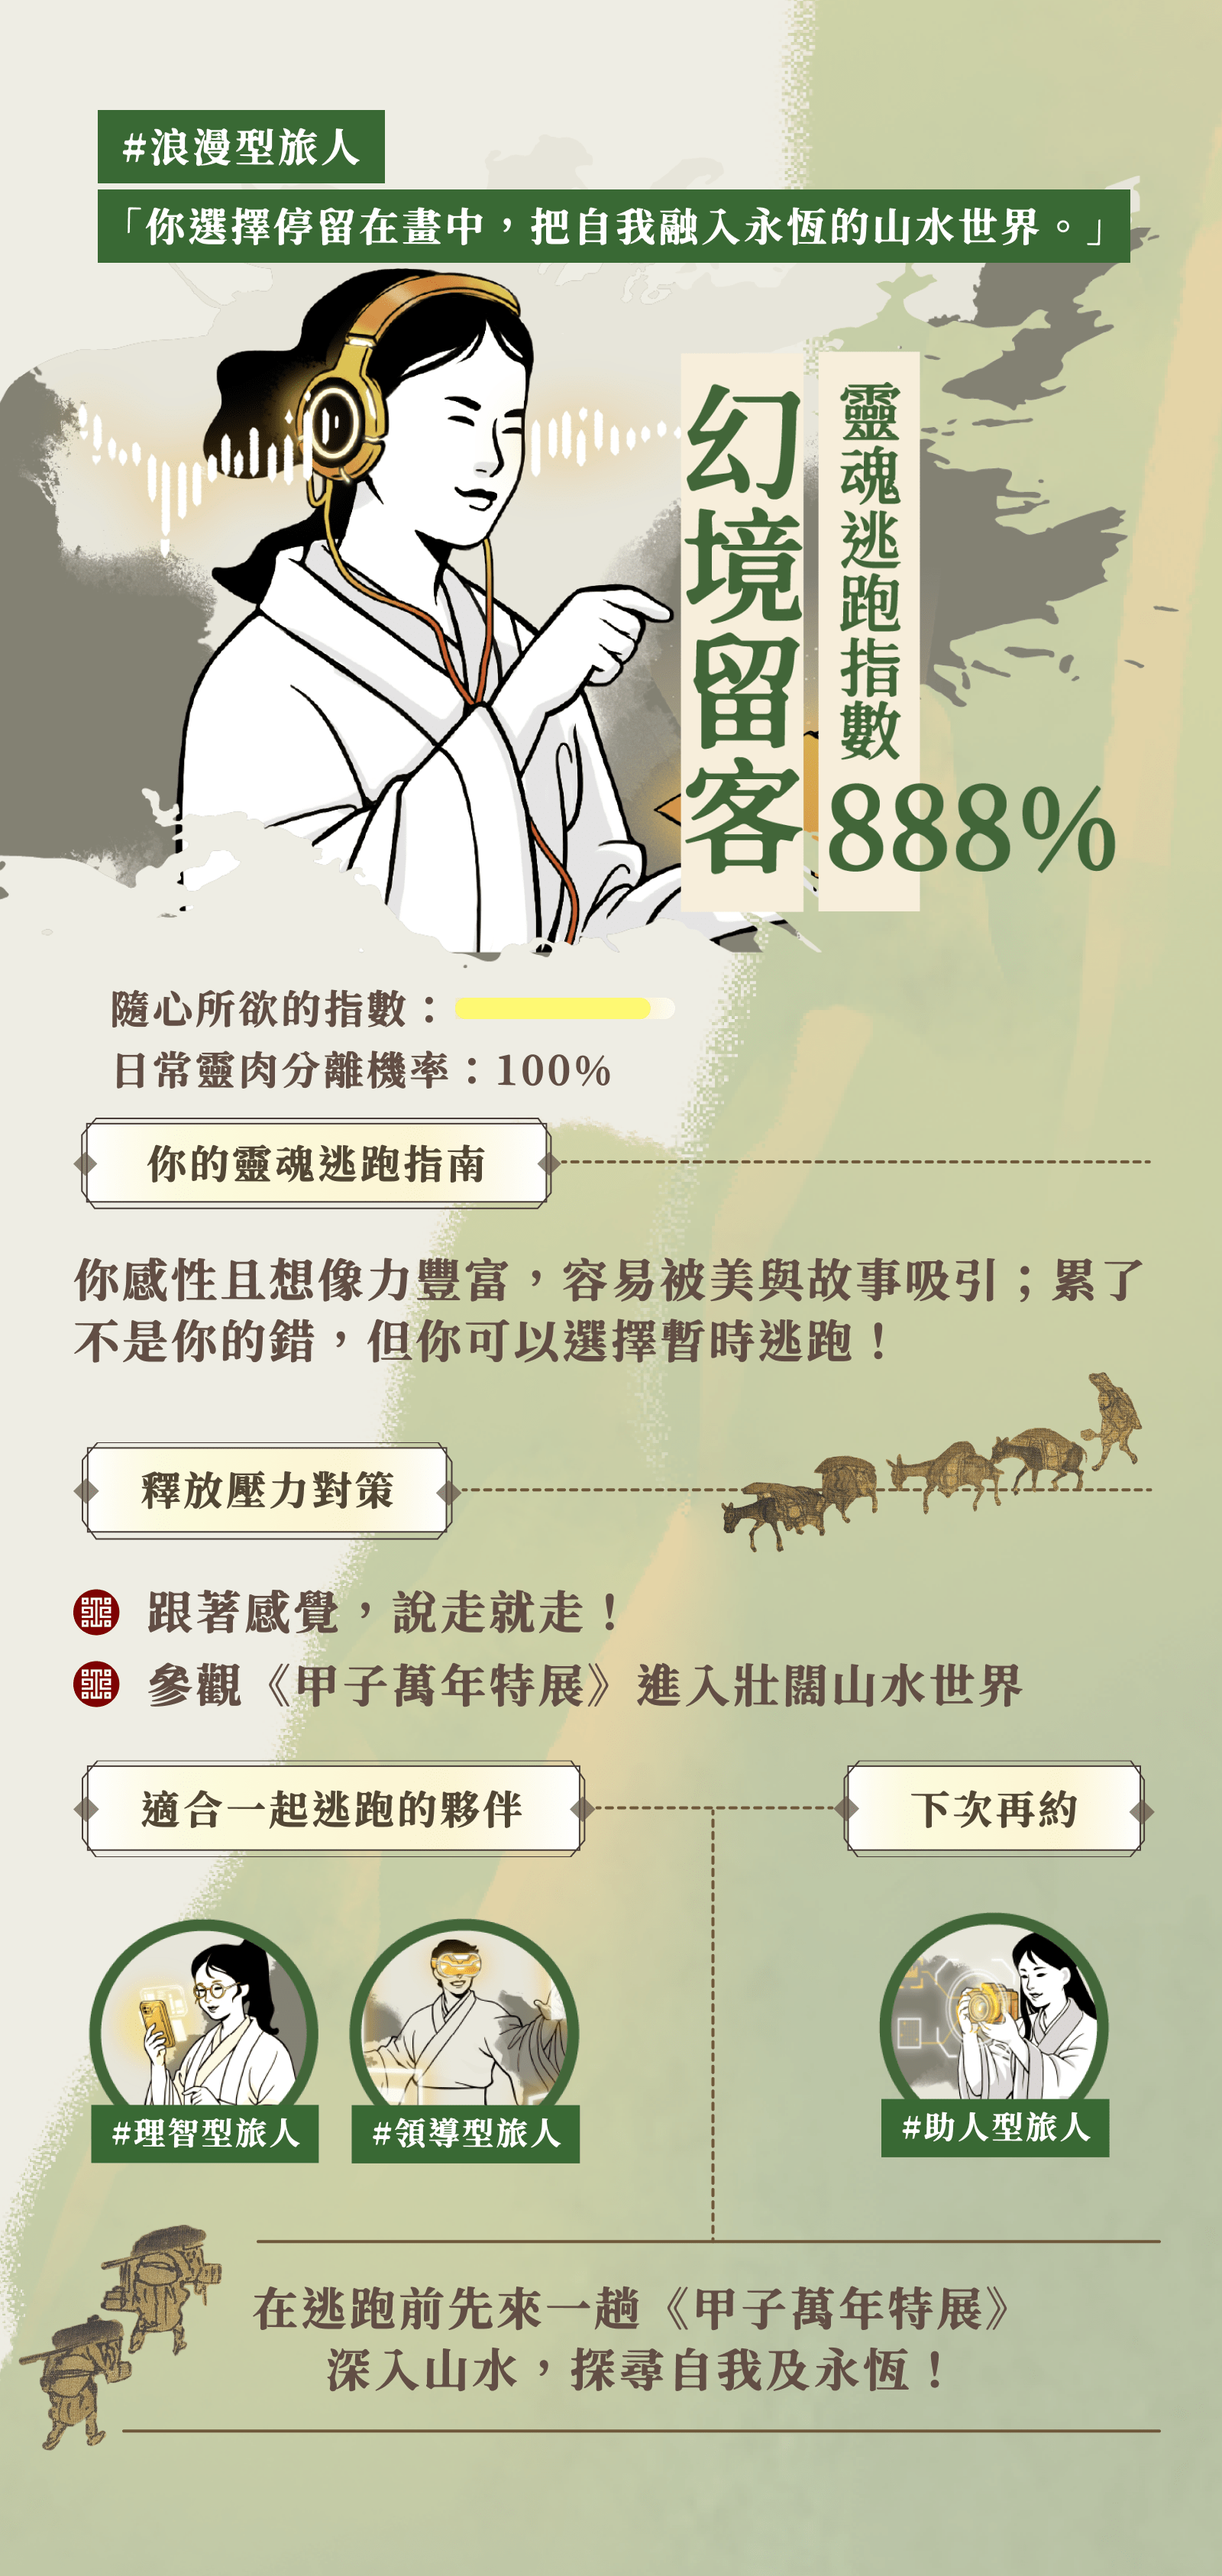
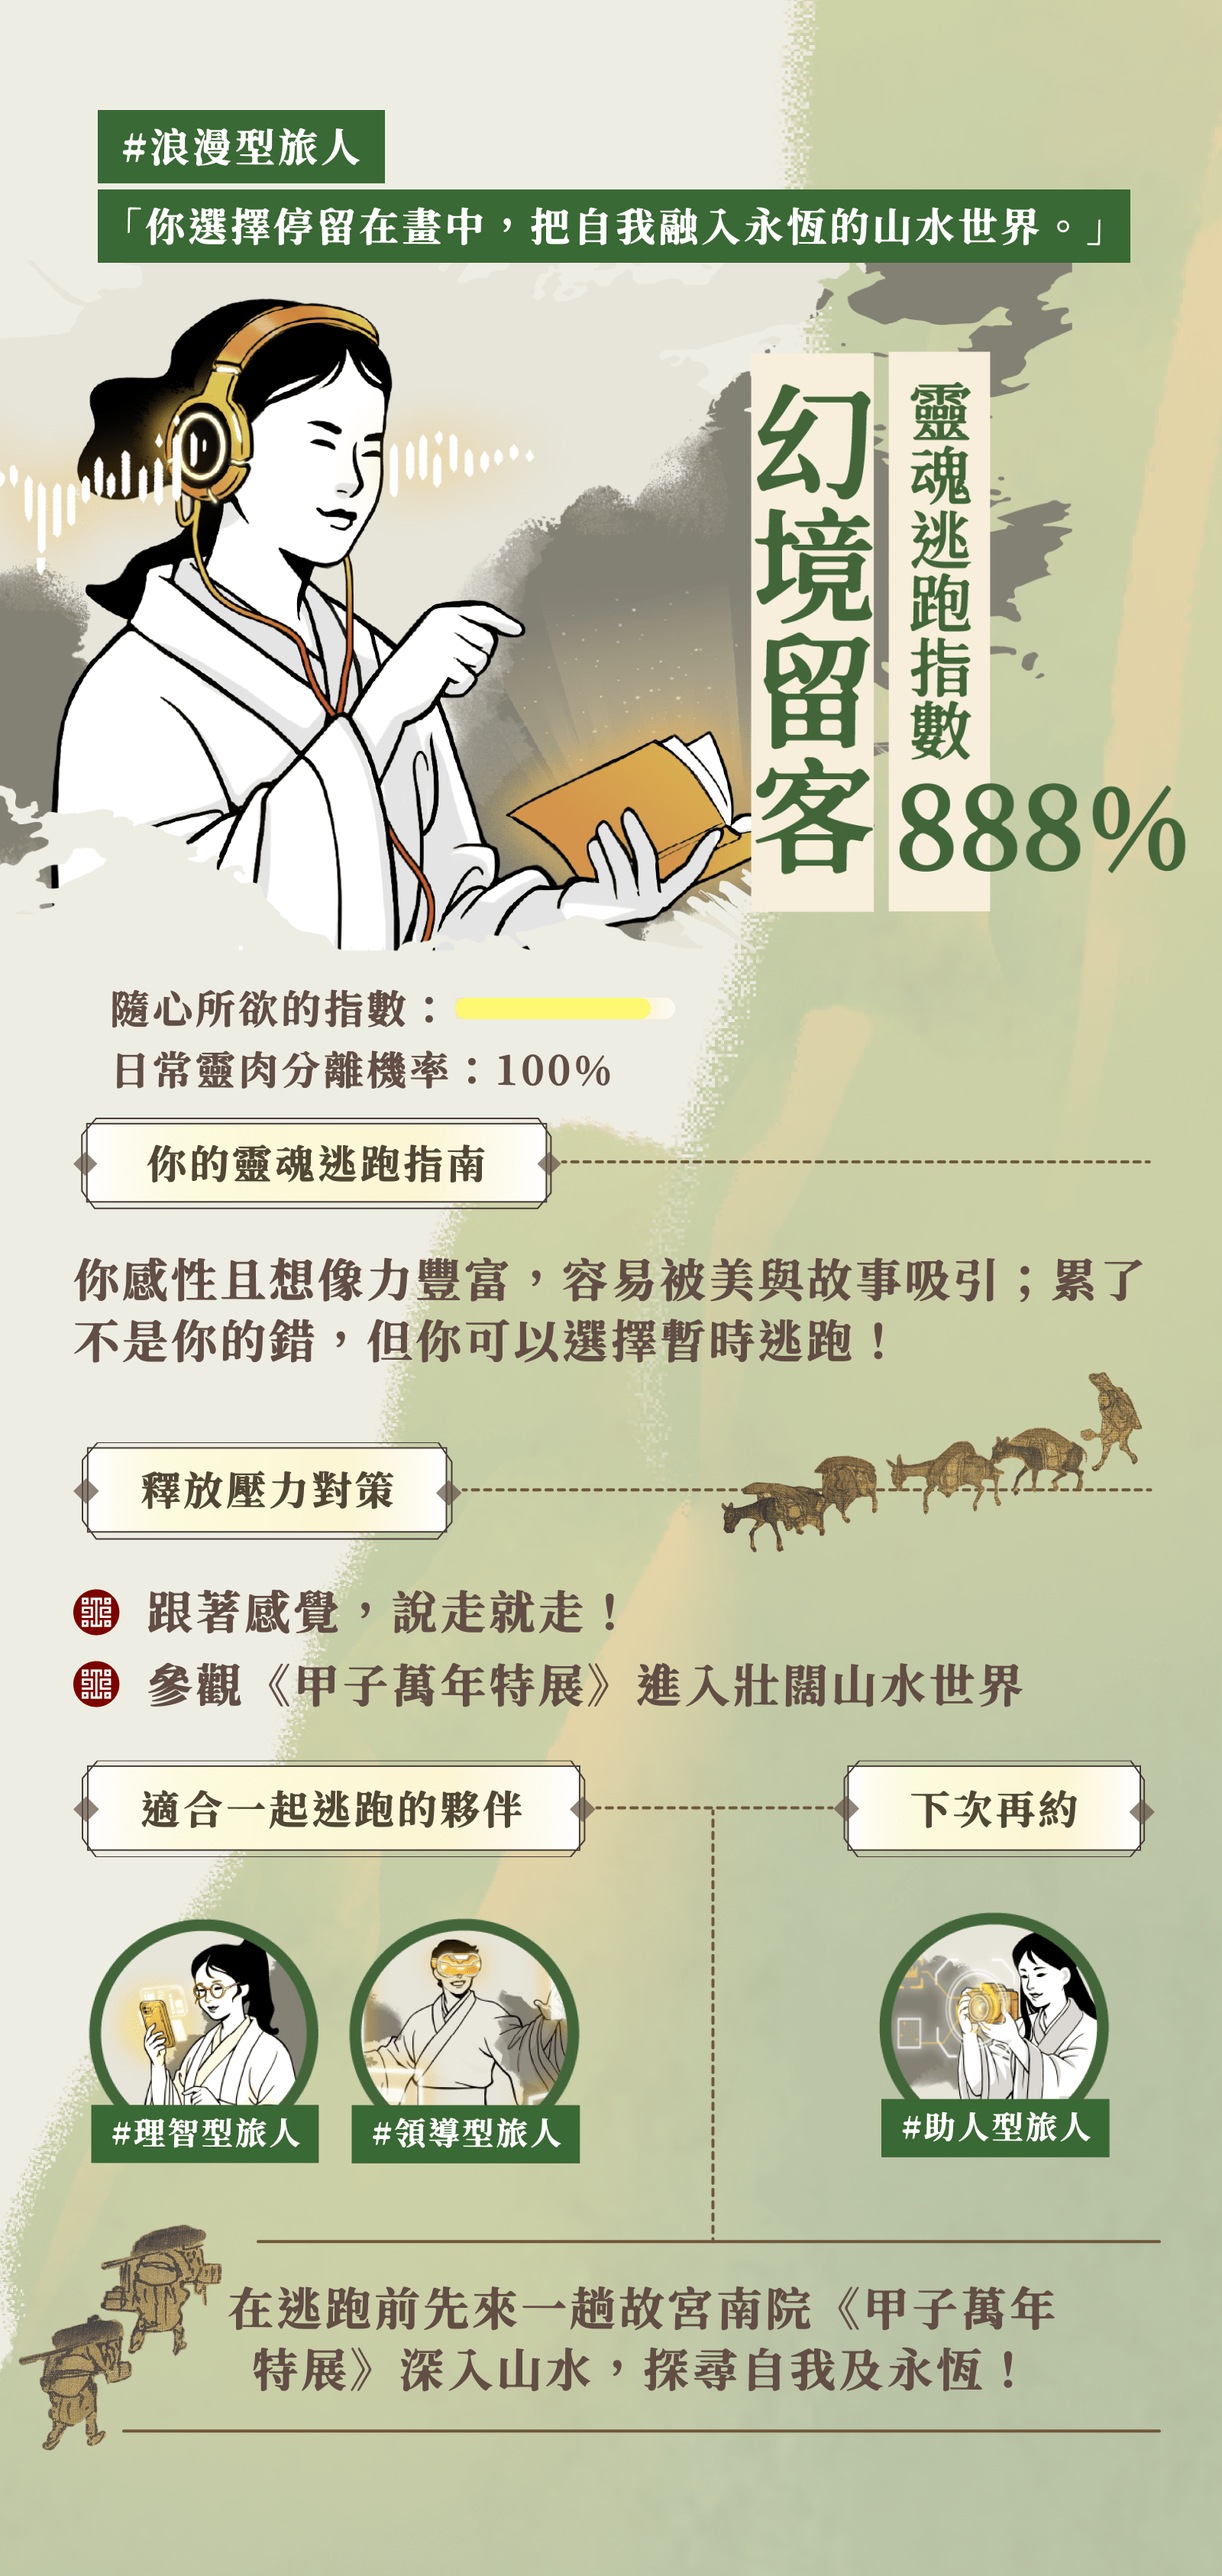
feat: 更新結果頁圖片並添加下載提示文字
- 更新 10 張結果頁圖片 (result_1-5.png, r_download_1-5.png)
- 在 P6 頁面按鈕上方添加下載提示文字：「▲ 長按圖片下載你的靈魂逃跑指南 ▲」
- 調整 p6-buttons 容器為 relative 定位以支援提示文字

🤖 Generated with [Claude Code](https://claude.com/claude-code)

Changed region(s): [[0.0, 0.0934, 0.9688, 0.3737], [0.1875, 0.8719, 0.875, 0.9342], [0.9062, 0.0623, 0.9375, 0.0934]]

diff --git a/src/components/sixagenary.vue b/src/components/sixagenary.vue
@@ -341,6 +341,7 @@
 
                         <!-- 按鈕區 -->
                         <div class="p6-buttons">
+                            <span class="p6-share-text" style="position: absolute; top: -34px;">▲ 長按圖片下載你的靈魂逃跑指南 ▲</span>
                             <button class="p6-btn" :class="{ 'p6-btn-scale-up': p6Button1Clicked }" @click="handleP6Button1Click">
                                 <span class="p6-btn-text">點擊瞭解更多《甲子萬年特展》</span>
                             </button>
@@ -3031,6 +3032,7 @@ button.option-item {
     padding: 10px 30px 25px;
     margin-top: 10px;
     box-sizing: border-box;
+    position: relative;
 }
 
 .p6-btn {
